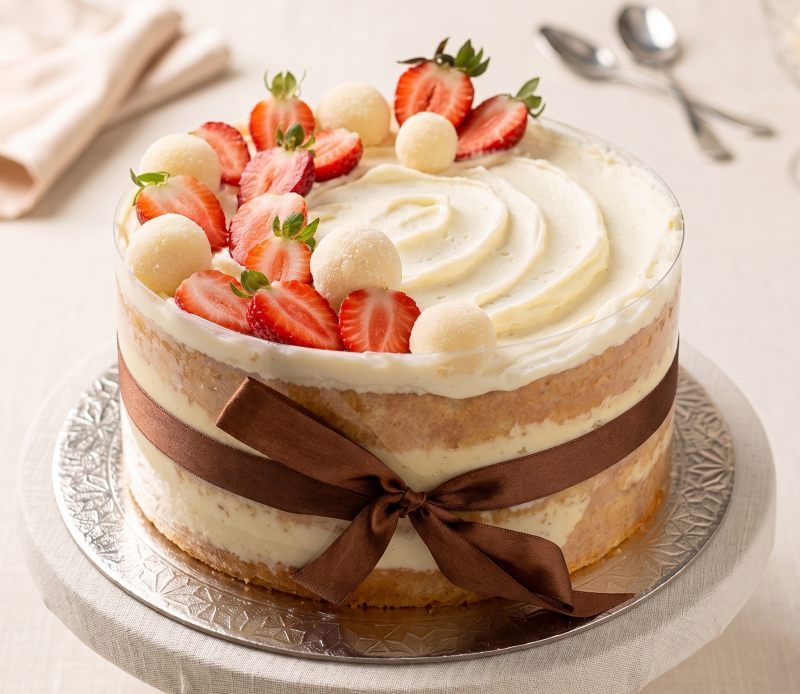
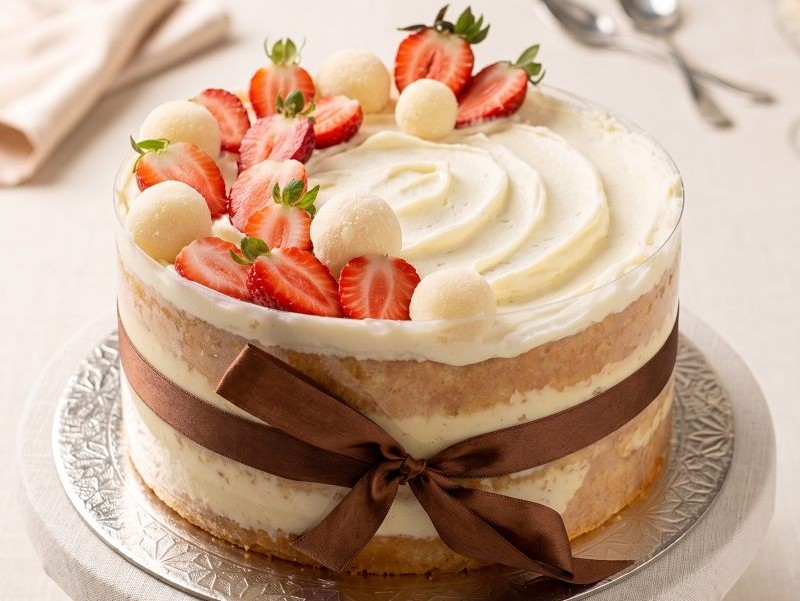
atualização abertura da pagina

diff --git a/loja-online/index.html b/loja-online/index.html
@@ -1,63 +1,68 @@
 <!DOCTYPE html>
 <html lang="pt-BR">
+
 <head>
-<meta charset="utf-8">
-<meta name="viewport" content="width=device-width, initial-scale=1">
-<title>Nicole Tyche · Loja</title>
-<link rel="icon" href="assets/favicon.ico">
-<link rel="preconnect" href="https://fonts.googleapis.com">
-<link rel="preconnect" href="https://fonts.gstatic.com" crossorigin>
-<link href="https://fonts.googleapis.com/css2?family=Cormorant+Garamond:ital,wght@0,400;0,500;0,600;1,400;1,500;1,600&family=EB+Garamond:ital,wght@0,400;0,500;1,400&display=swap" rel="stylesheet">
-<link rel="stylesheet" href="styles.css">
+  <meta charset="utf-8">
+  <meta name="viewport" content="width=device-width, initial-scale=1">
+  <title>Nicole Tyche · Loja</title>
+  <link rel="icon" href="assets/favicon.ico">
+  <link rel="preconnect" href="https://fonts.googleapis.com">
+  <link rel="preconnect" href="https://fonts.gstatic.com" crossorigin>
+  <link
+    href="https://fonts.googleapis.com/css2?family=Cormorant+Garamond:ital,wght@0,400;0,500;0,600;1,400;1,500;1,600&family=EB+Garamond:ital,wght@0,400;0,500;1,400&display=swap"
+    rel="stylesheet">
+  <link rel="stylesheet" href="styles.css">
 </head>
+
 <body>
 
-<header class="header">
-  <img src="assets/logo.png" alt="Nicole Tyche" class="logo">
-  <div class="brand">Nicole Tyche</div>
-  <h1 class="title">Le Petit Catalogue</h1>
-  <div class="tagline">
-    <span class="line"></span>
-    <span class="text">doçaria fina · encomendas</span>
-    <span class="line"></span>
-  </div>
-</header>
-
-<main class="sheet" id="catalog"></main>
-
-<footer class="footer">
-  <div class="row">
-    <span class="label">confeitaria artesanal</span>
-    <span class="sep"></span>
-    <a href="https://wa.me/[phone redacted]">WhatsApp (22) [phone redacted]</a>
-  </div>
-</footer>
-
-<!-- BOTÃO FLUTUANTE DO CARRINHO -->
-<button id="cart-toggle" class="cart-toggle" aria-label="Abrir carrinho">
-  <span class="cart-icon">🛍</span>
-  <span id="cart-count" class="cart-count">0</span>
-</button>
-
-<!-- PAINEL DO CARRINHO -->
-<div id="cart-backdrop" class="cart-backdrop"></div>
-<aside id="cart-panel" class="cart-panel">
-  <div class="cart-header">
-    <h3>Seu pedido</h3>
-    <button id="cart-close" class="cart-close" aria-label="Fechar carrinho">×</button>
-  </div>
-  <div id="cart-items" class="cart-items"></div>
-  <div class="cart-footer">
-    <div class="cart-total">
-      <span>Total</span>
-      <span id="cart-total-value">R$ 0,00</span>
+  <header class="header">
+    <img src="assets/logo.png" alt="Nicole Tyche" class="logo">
+    <div class="brand">Nicole · Tyche</div>
+    <h1 class="title">Le Petit Catalogue</h1>
+    <div class="tagline">
+      <span class="line"></span>
+      <span class="text">doçaria fina · encomendas</span>
+      <span class="line"></span>
     </div>
-    <button id="cart-checkout" class="cart-checkout" disabled>Finalizar pedido no WhatsApp</button>
-  </div>
-</aside>
+  </header>
 
-<script src="products.js"></script>
-<script src="cart.js"></script>
-<script src="app.js"></script>
+  <main class="sheet" id="catalog"></main>
+
+  <footer class="footer">
+    <div class="row">
+      <span class="label">confeitaria artesanal</span>
+      <span class="sep"></span>
+      <a href="https://wa.me/[phone redacted]">WhatsApp (22) [phone redacted]</a>
+    </div>
+  </footer>
+
+  <!-- BOTÃO FLUTUANTE DO CARRINHO -->
+  <button id="cart-toggle" class="cart-toggle" aria-label="Abrir carrinho">
+    <span class="cart-icon">🛍</span>
+    <span id="cart-count" class="cart-count">0</span>
+  </button>
+
+  <!-- PAINEL DO CARRINHO -->
+  <div id="cart-backdrop" class="cart-backdrop"></div>
+  <aside id="cart-panel" class="cart-panel">
+    <div class="cart-header">
+      <h3>Seu pedido</h3>
+      <button id="cart-close" class="cart-close" aria-label="Fechar carrinho">×</button>
+    </div>
+    <div id="cart-items" class="cart-items"></div>
+    <div class="cart-footer">
+      <div class="cart-total">
+        <span>Total</span>
+        <span id="cart-total-value">R$ 0,00</span>
+      </div>
+      <button id="cart-checkout" class="cart-checkout" disabled>Finalizar pedido no WhatsApp</button>
+    </div>
+  </aside>
+
+  <script src="products.js"></script>
+  <script src="cart.js"></script>
+  <script src="app.js"></script>
 </body>
+
 </html>

diff --git a/loja-online/styles.css b/loja-online/styles.css
@@ -32,10 +32,10 @@ a { color: var(--gold); }
   height: auto;
   margin: 0 auto 16px;
   display: block;
-  animation: logo-rise 0.8s ease both;
+  animation: fade-rise 0.7s ease both;
 }
 
-@keyframes logo-rise {
+@keyframes fade-rise {
   from {
     opacity: 0;
     transform: translateY(16px);
@@ -54,6 +54,8 @@ a { color: var(--gold); }
   text-transform: uppercase;
   margin-bottom: 12px;
   padding-left: 0.3em;
+  animation: fade-rise 0.7s ease both;
+  animation-delay: 0.15s;
 }
 
 .title {
@@ -64,6 +66,8 @@ a { color: var(--gold); }
   line-height: 1;
   margin: 0 0 12px;
   color: var(--gold);
+  animation: fade-rise 0.7s ease both;
+  animation-delay: 0.3s;
 }
 
 .tagline {
@@ -72,6 +76,8 @@ a { color: var(--gold); }
   justify-content: center;
   gap: 12px;
   color: var(--gold);
+  animation: fade-rise 0.7s ease both;
+  animation-delay: 0.45s;
 }
 
 .tagline .line { height: 1px; width: 32px; background: currentColor; opacity: 0.6; }